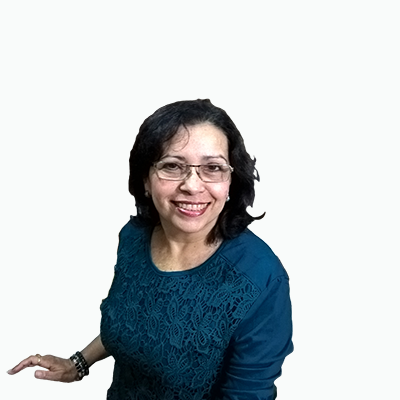
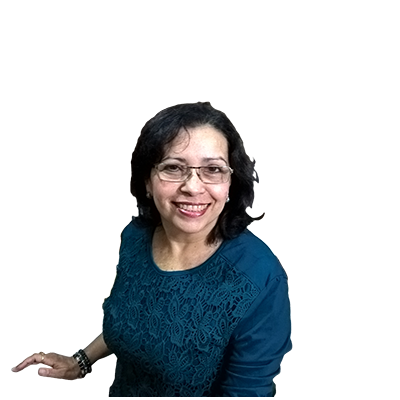
changed style in home.js

diff --git a/src/components/Home.js b/src/components/Home.js
@@ -1,72 +1,66 @@
 import React from "react";
-import Logo from "../assets/images/logo2.png";
-import Mente from "../assets/images/mente.jpg";
 import Container from "react-bootstrap/Container";
 import Row from "react-bootstrap/Row";
 import Col from "react-bootstrap/Col";
-
+import Photo from "../assets/images/janisse.png";
+import Logo from "../assets/images/logo.png";
 const Home = () => {
   return (
-    <Container fluid>
-      <Row>
-        <Col className="home-first  ">
-          <p className="first-text">
-            El aprendizaje, como la vida ,es cíclico, un espiral ascendente de
-            cambios cualitativos. <br />
-            Se requiere un pensamiento abierto que nos permita adaptarnos y
-            evolucionar, deconstruirnos y volver a construirnos.
-            <br />
-          </p>
-          <p className="second-text text-center">
-            <b>
-              Desaprender y reaprender para emprender, con propuestas de valor.
-              <br />
-              Ésta es la cuestión primordial.
-            </b>
-          </p>
-        </Col>
-        <Col className="">
-          <img src={Logo} alt="Logo" width={350} />
-          <p className="third-text">
-            Espacio de experiencias de aprendizaje e investigación
-          </p>
-          <p>Innovación y transformación</p>
-        </Col>
-      </Row>
-      <Row className="m-5 text-center second-home ">
-        <Col>
-          <img src={Mente} alt="mente" width={300} />
-        </Col>
-        <Col>
-          <div>
-            <p>Aprender e investigar son procesos.</p>
+    <>
+      <h1 className="p-3 text-center first-heading">
+        Espacio de experiencias de aprendizaje e investigación.
+      </h1>
+      <h2 className="text-center second-heading">
+        Innovación y transformación
+      </h2>
+      <Container fluid>
+  <Row className="card-t">
+    <Col>
+      <img className="image-logo" src={Logo} alt="Logo" width={300} />
+    </Col>
+    <Col  className="home-first-text">
+      <p>
+        El aprendizaje, como la vida, es cíclico, una espiral ascendente de
+        cambios cualitativos.
+      </p>
+      <p>
+        Se requiere un pensamiento abierto que nos permita adaptarnos y
+        evolucionar, deconstruirnos y volver a construirnos
+      </p>
+      <p className="fw-bold">
+        Desaprender y reaprender para emprender, con propuestas de valor. Ésta
+        es la cuestión primordial.
+      </p>
+    </Col>
+  </Row>
+</Container>
+      <Container fluid className="home-card">
+        <Row className="card-t">
+          <Col className="home-second-text ">
+            <h3>Aprender e investigar son procesos.</h3>
             <p>
               Un camino transformador que debemos seguir con apertura de miras
               para cambiar la realidad, sin prisas, pero sin pausas, ni miedos o
               limitaciones que nos detengan o no nos permitan verla ni
-              proyectarla.
+              proyectarla. Nos cuesta cambiar la visión y el foco. Es más común
+              de lo que crees. Hasta que no demos el primer paso para obtener el
+              cambio y lograr la transformación que buscamos, seguiremos en un
+              círculo vicioso.
             </p>
             <p>
-              Nos cuesta cambiar la visión y el foco. Es más común de lo que
-              crees.
+              <strong>¿Estás dispuesto/a a impulsar tu trabajo? </strong>
+              <br />
+              Es tu momento, toma una decisión.
+              <br />
+              Te ofrezco mi ayuda.
             </p>
-            <p>
-              Hasta que no demos el primer paso para obtener el cambio y lograr
-              la transformación que buscamos, seguiremos en un círculo vicioso.
-            </p>
-            <p className="fst-italic">
-              ¿Estás dispuesto/a a impulsar tu trabajo?
-            </p>
-            <p>
-              {" "}
-              <strong>
-                Es tu momento, toma una decisión. Te podemos ayudar.{" "}
-              </strong>
-            </p>
-          </div>
-        </Col>
-      </Row>
-    </Container>
+          </Col>
+          <Col>
+            <img className="image-photo" src={Photo} alt="Logo" width={450} />
+          </Col>
+        </Row>
+      </Container>
+    </>
   );
 };
 

diff --git a/src/components/Navbar.js b/src/components/Navbar.js
@@ -3,10 +3,10 @@ import React from "react";
 const Navbar = () => {
   return (
     <>
-    <nav class="navbar navbar-expand-lg d-flex">
-      <div class="container-fluid">
+    <nav className="navbar navbar-expand-lg d-flex">
+      <div className="container-fluid">
         <button
-          class="navbar-toggler"
+          className="navbar-toggler"
           type="button"
           data-bs-toggle="collapse"
           data-bs-target="#navbarNav"
@@ -14,48 +14,48 @@ const Navbar = () => {
           aria-expanded="false"
           aria-label="Toggle navigation"
           >
-          <span class="navbar-toggler-icon"></span>
+          <span className="navbar-toggler-icon"></span>
         </button>
         <div
-          class="collapse navbar-collapse justify-content-center"
+          className="collapse navbar-collapse justify-content-center"
           id="navbarNav"
           >
-          <ul class="navbar-nav">
-            <li class="nav-item">
-              <a class="nav-link active" aria-current="page" href="/">
+          <ul className="navbar-nav">
+            <li className="nav-item">
+              <a className="nav-link active" aria-current="page" href="/">
                 Inicio
               </a>
             </li>
-            <li class="nav-item">
-              <a class="nav-link" href="#mentorias">
+            <li className="nav-item">
+              <a className="nav-link" href="#mentorias">
                 Mentoría
               </a>
             </li>
-            <li class="nav-item">
-              <a class="nav-link" href="#aprende">
+            <li className="nav-item">
+              <a className="nav-link" href="#aprende">
                 Aprendamos Juntos
               </a>
             </li>
-            <li class="nav-item">
-              <a class="nav-link" href="#about">
+            <li className="nav-item">
+              <a className="nav-link" href="#about">
                 Conóceme
               </a>
             </li>
-            <li class="nav-item">
-              <a class="nav-link" href="#contact">
+            <li className="nav-item">
+              <a className="nav-link" href="#contact">
                 Contáctame
               </a>
             </li>
-            <li class="nav-item">
-              <a class="nav-link" href="#s">
+            <li className="nav-item">
+              <a className="nav-link" href="#s">
                 Aula Virtual
               </a>
             </li>
           </ul>
-        <div class="d-grid gap-2 d-md-flex justify-content-end">
+        {/* <div class="d-grid gap-2 d-md-flex justify-content-end">
   <button class="btn btn-light  me-md-2 " type="button">Inicia sesión</button>
   <button class="btn btn-light " type="button">Regístrate </button>
-        </div>
+        </div> */}
       </div>
 </div>
     </nav>

diff --git a/src/App.css b/src/App.css
@@ -1,3 +1,8 @@
+* {
+  margin: auto;
+  padding: 0;
+}
+
 :root {
   --background-color: radial-gradient(
     328px at 2.9% 15%,
@@ -7,41 +12,39 @@
     rgb(234, 251, 251) 77.6%,
     rgb(240, 251, 244) 100.7%
   );
-  /* --home-text: #5585b5; */
+  --heading-font: "Cormorant Garamond", serif;
+  --sub-heading-font: "Gentium Plus", serif;
 }
 
-.first-text,
-.second-text {
-  font-style: italic;
+.first-heading {
+  font-family: var(--heading-font);
+}
+
+.second-heading {
+  font-family: var(--sub-heading-font);
+}
+
+.home-first-text {
+  font-size: 25px;
+  text-align: center;
+}
+
+.home-second-text {
   font-size: 20px;
-  margin: 10px;
-}
-
-.first-text,
-.second-text {
-  color: var(--home-text);
-  font-family: 'Alegreya Sans', sans-serif;
-
-}
-
-.home-first {
-  margin-bottom: auto;
-  margin-top: auto;
-}
-
-.second-home {
-  background: var(--background-color);
-  font-size: 18px;
+  text-align: center;
   
 }
 
-.about-card{
+.home-card {
+  background: radial-gradient(328px at 2.9% 15%, rgb(191, 224, 251) 0%, rgb(232, 233, 251) 25.8%, rgb(252, 239, 250) 50.8%, rgb(234, 251, 251) 77.6%, rgb(240, 251, 244) 100.7%);
+  margin-left: auto;
+  margin-right: auto;
+}
+
+.about-card {
   background-color: #fafafa;
 }
-.image-about{
-  box-shadow:5px 2px 5px rgba(0,0,0,0.3) ;
-  border-radius: 10px;
-}
+
 .mentoria-text {
   font-size: 18px;
   font-family: Georgia, "Times New Roman", Times, serif;
@@ -54,4 +57,52 @@
   font-size: 28px;
   font-weight: 100;
   font-family: "Gill Sans", "Gill Sans MT", Calibri, "Trebuchet MS", sans-serif;
+}
+
+@media screen and (min-width: 992px) {
+  .home-first-text,
+  .home-second-text {
+    margin-top: 20px;
+    text-align: center;
+  
+  }
+  .image-photo {
+    width: 600px;
+    display: block;
+    margin-left: auto;
+    margin-right: auto;
+  }
+  .image-logo{
+    width: 400px;
+  }
+  .card-t {
+    margin: 100px;
+    padding: 3em;
+  }
+}
+@media screen and (max-width: 992px) {
+  .image-photo,.image-logo {
+    width: 250px;
+    display: block;
+    margin-left: auto;
+    margin-right: auto;
+  }
+  .first-heading {
+    font-size: 24px;
+  }
+  .second-heading {
+    font-size: 20px;
+  }
+  .home-first-text,
+  .home-second-text {
+    font-size: 17px;
+  }
+}
+@media screen and (max-width: 450px) {
+  .image-photo,.image-logo {
+    width: 300px;
+    display: block;
+    margin-left: auto;
+    margin-right: auto;
+  }
 }

diff --git a/src/App.js b/src/App.js
@@ -2,11 +2,11 @@ import React from 'react';
 import '../node_modules/bootstrap/dist/css/bootstrap.min.css'
 import Navbar from './components/Navbar';
 import Home from './components/Home'
-import About from './components/About';
-import Mentoria from './components/Mentoria'
-import Aprende from './components/Aprende'
-import Footer from './components/Footer';
-import './App.css';
+// import About from './components/About';
+// import Mentoria from './components/Mentoria'
+// import Aprende from './components/Aprende'
+// import Footer from './components/Footer';
+ import './App.css';
 import 'animate.css';
 
 function App() {
@@ -14,10 +14,10 @@ function App() {
     <div>
       <Navbar></Navbar>
       <Home/>
-      <Mentoria/>
+      {/* <Mentoria/>
       <Aprende/>
       <About/>
-      <Footer/>
+      <Footer/> */}
     </div>
   );
 }

diff --git a/src/components/About.js b/src/components/About.js
@@ -2,7 +2,7 @@ import React from "react";
 import Container from "react-bootstrap/Container";
 import Row from "react-bootstrap/Row";
 import Col from "react-bootstrap/Col";
-
+import Photo from "../assets/images/janisse.png"
 const About = () => {
   return (
     <>
